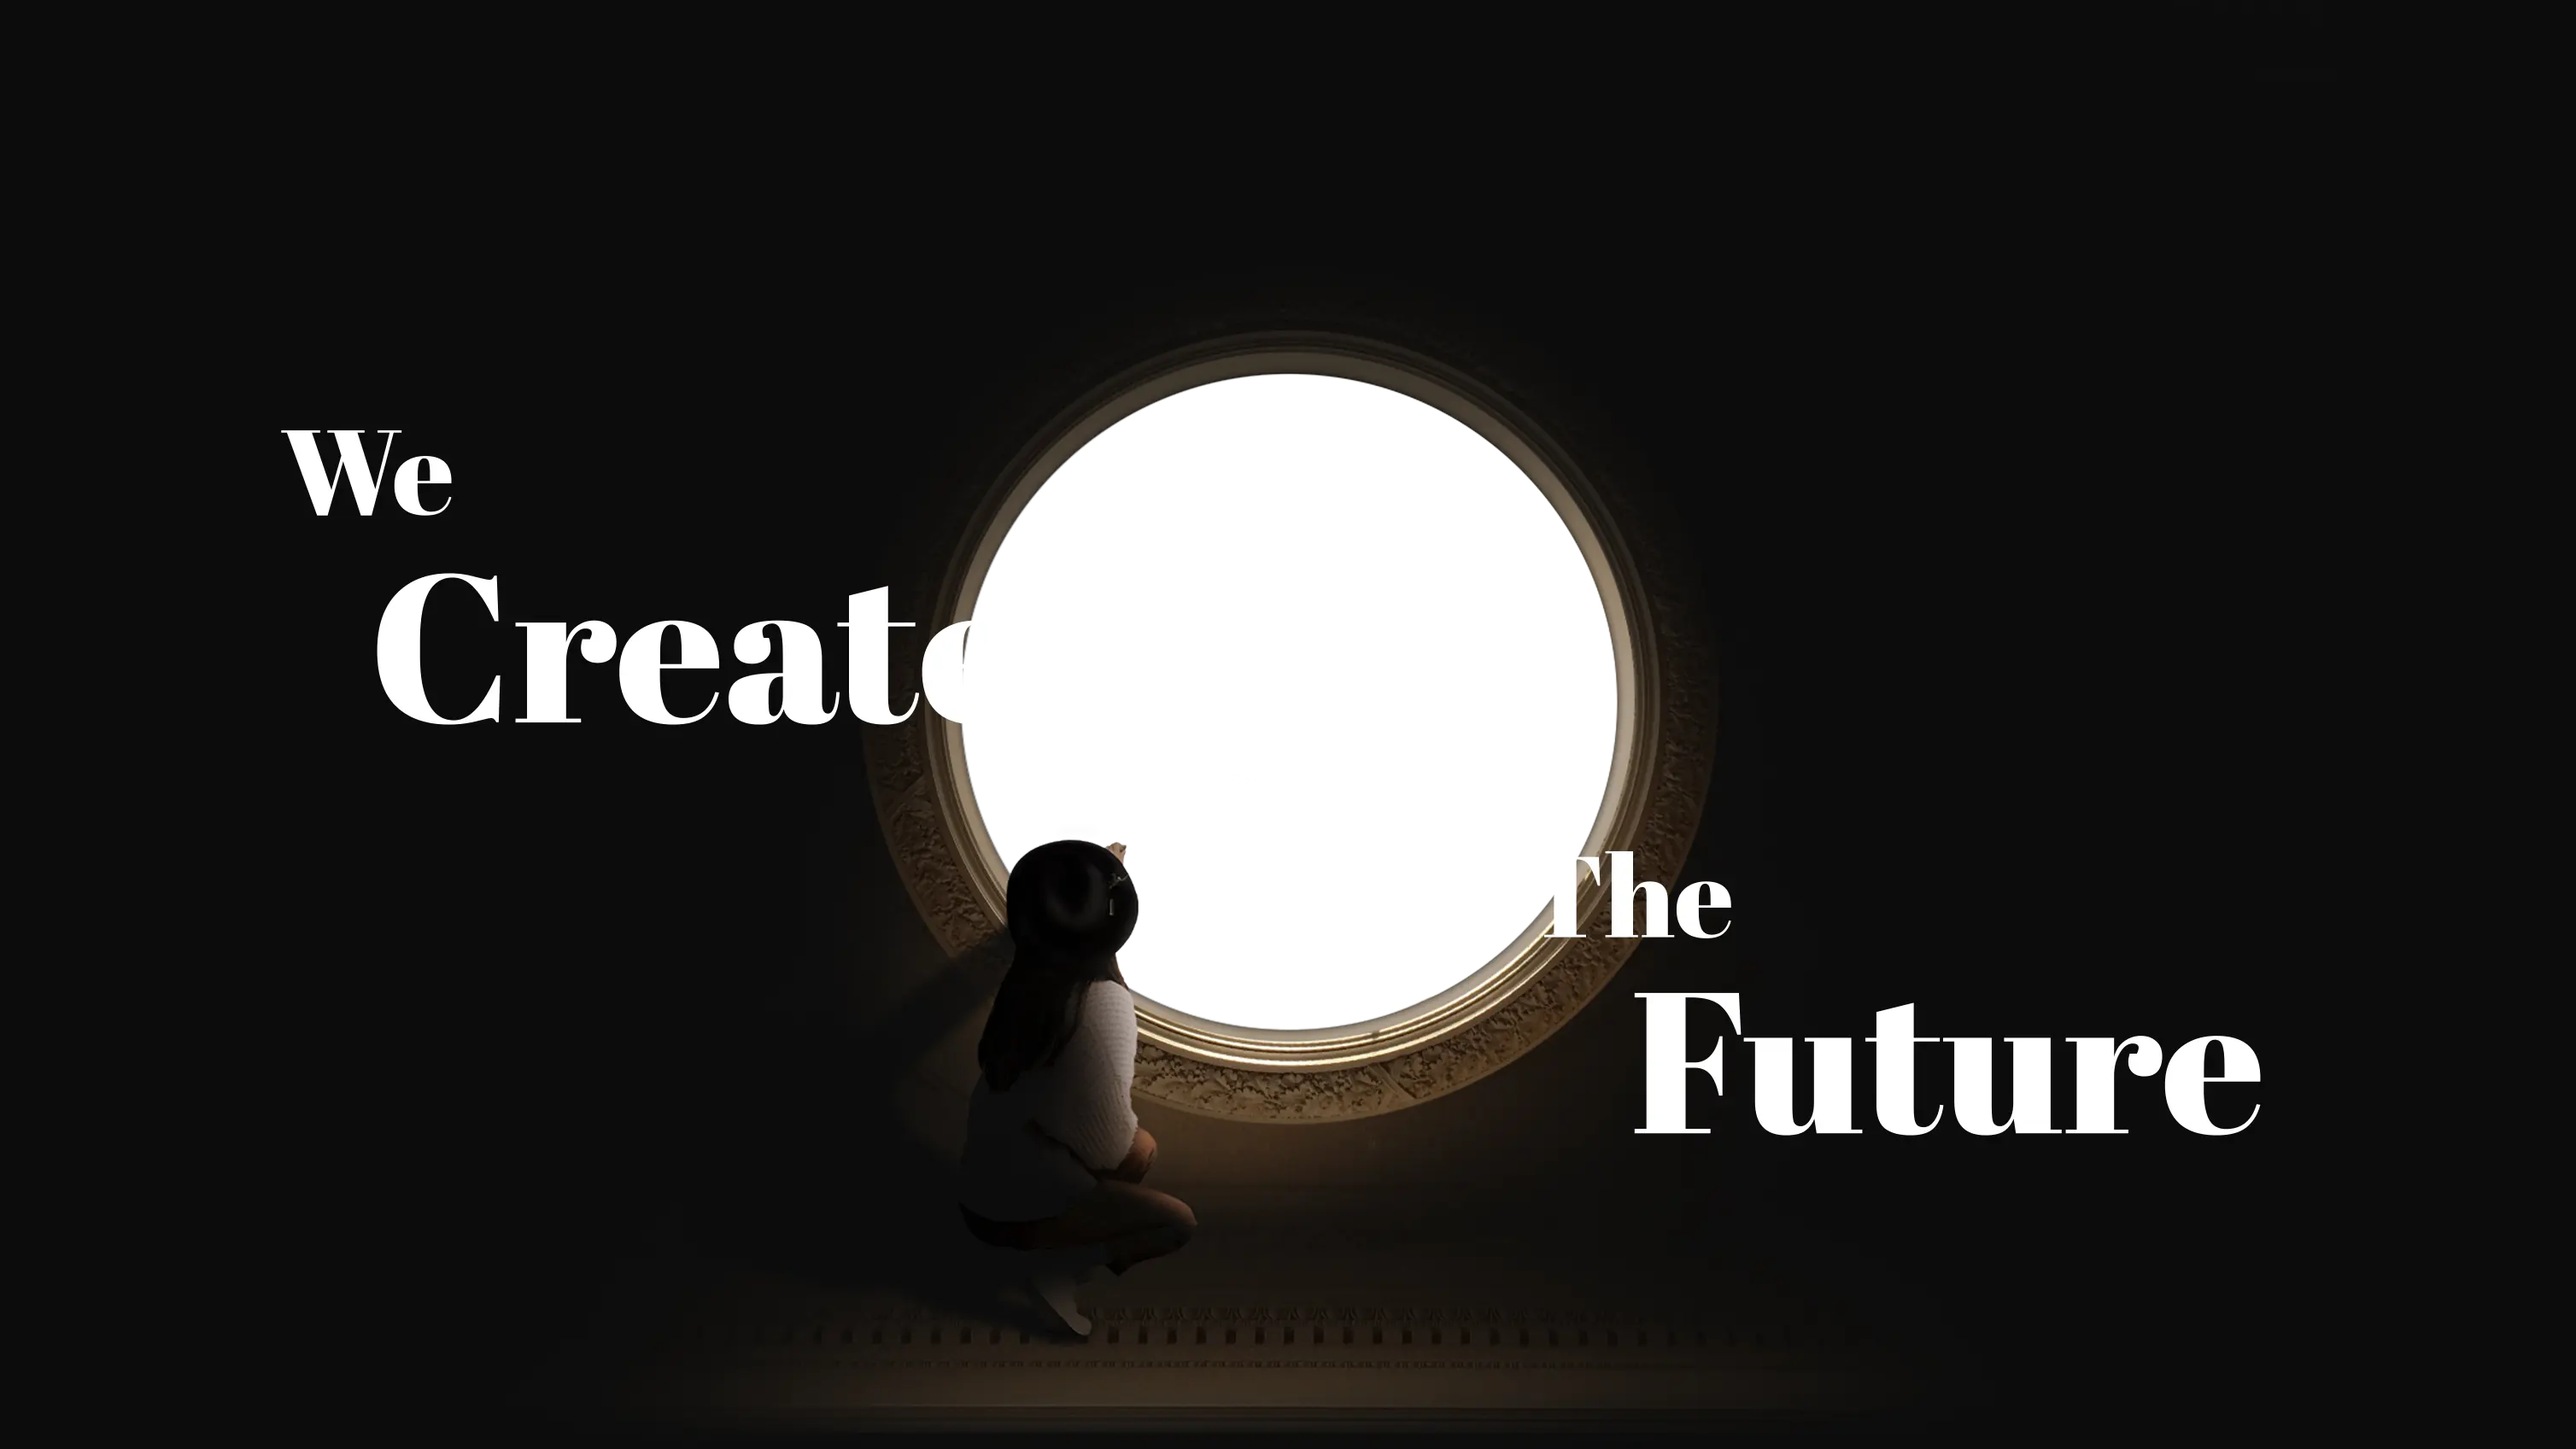
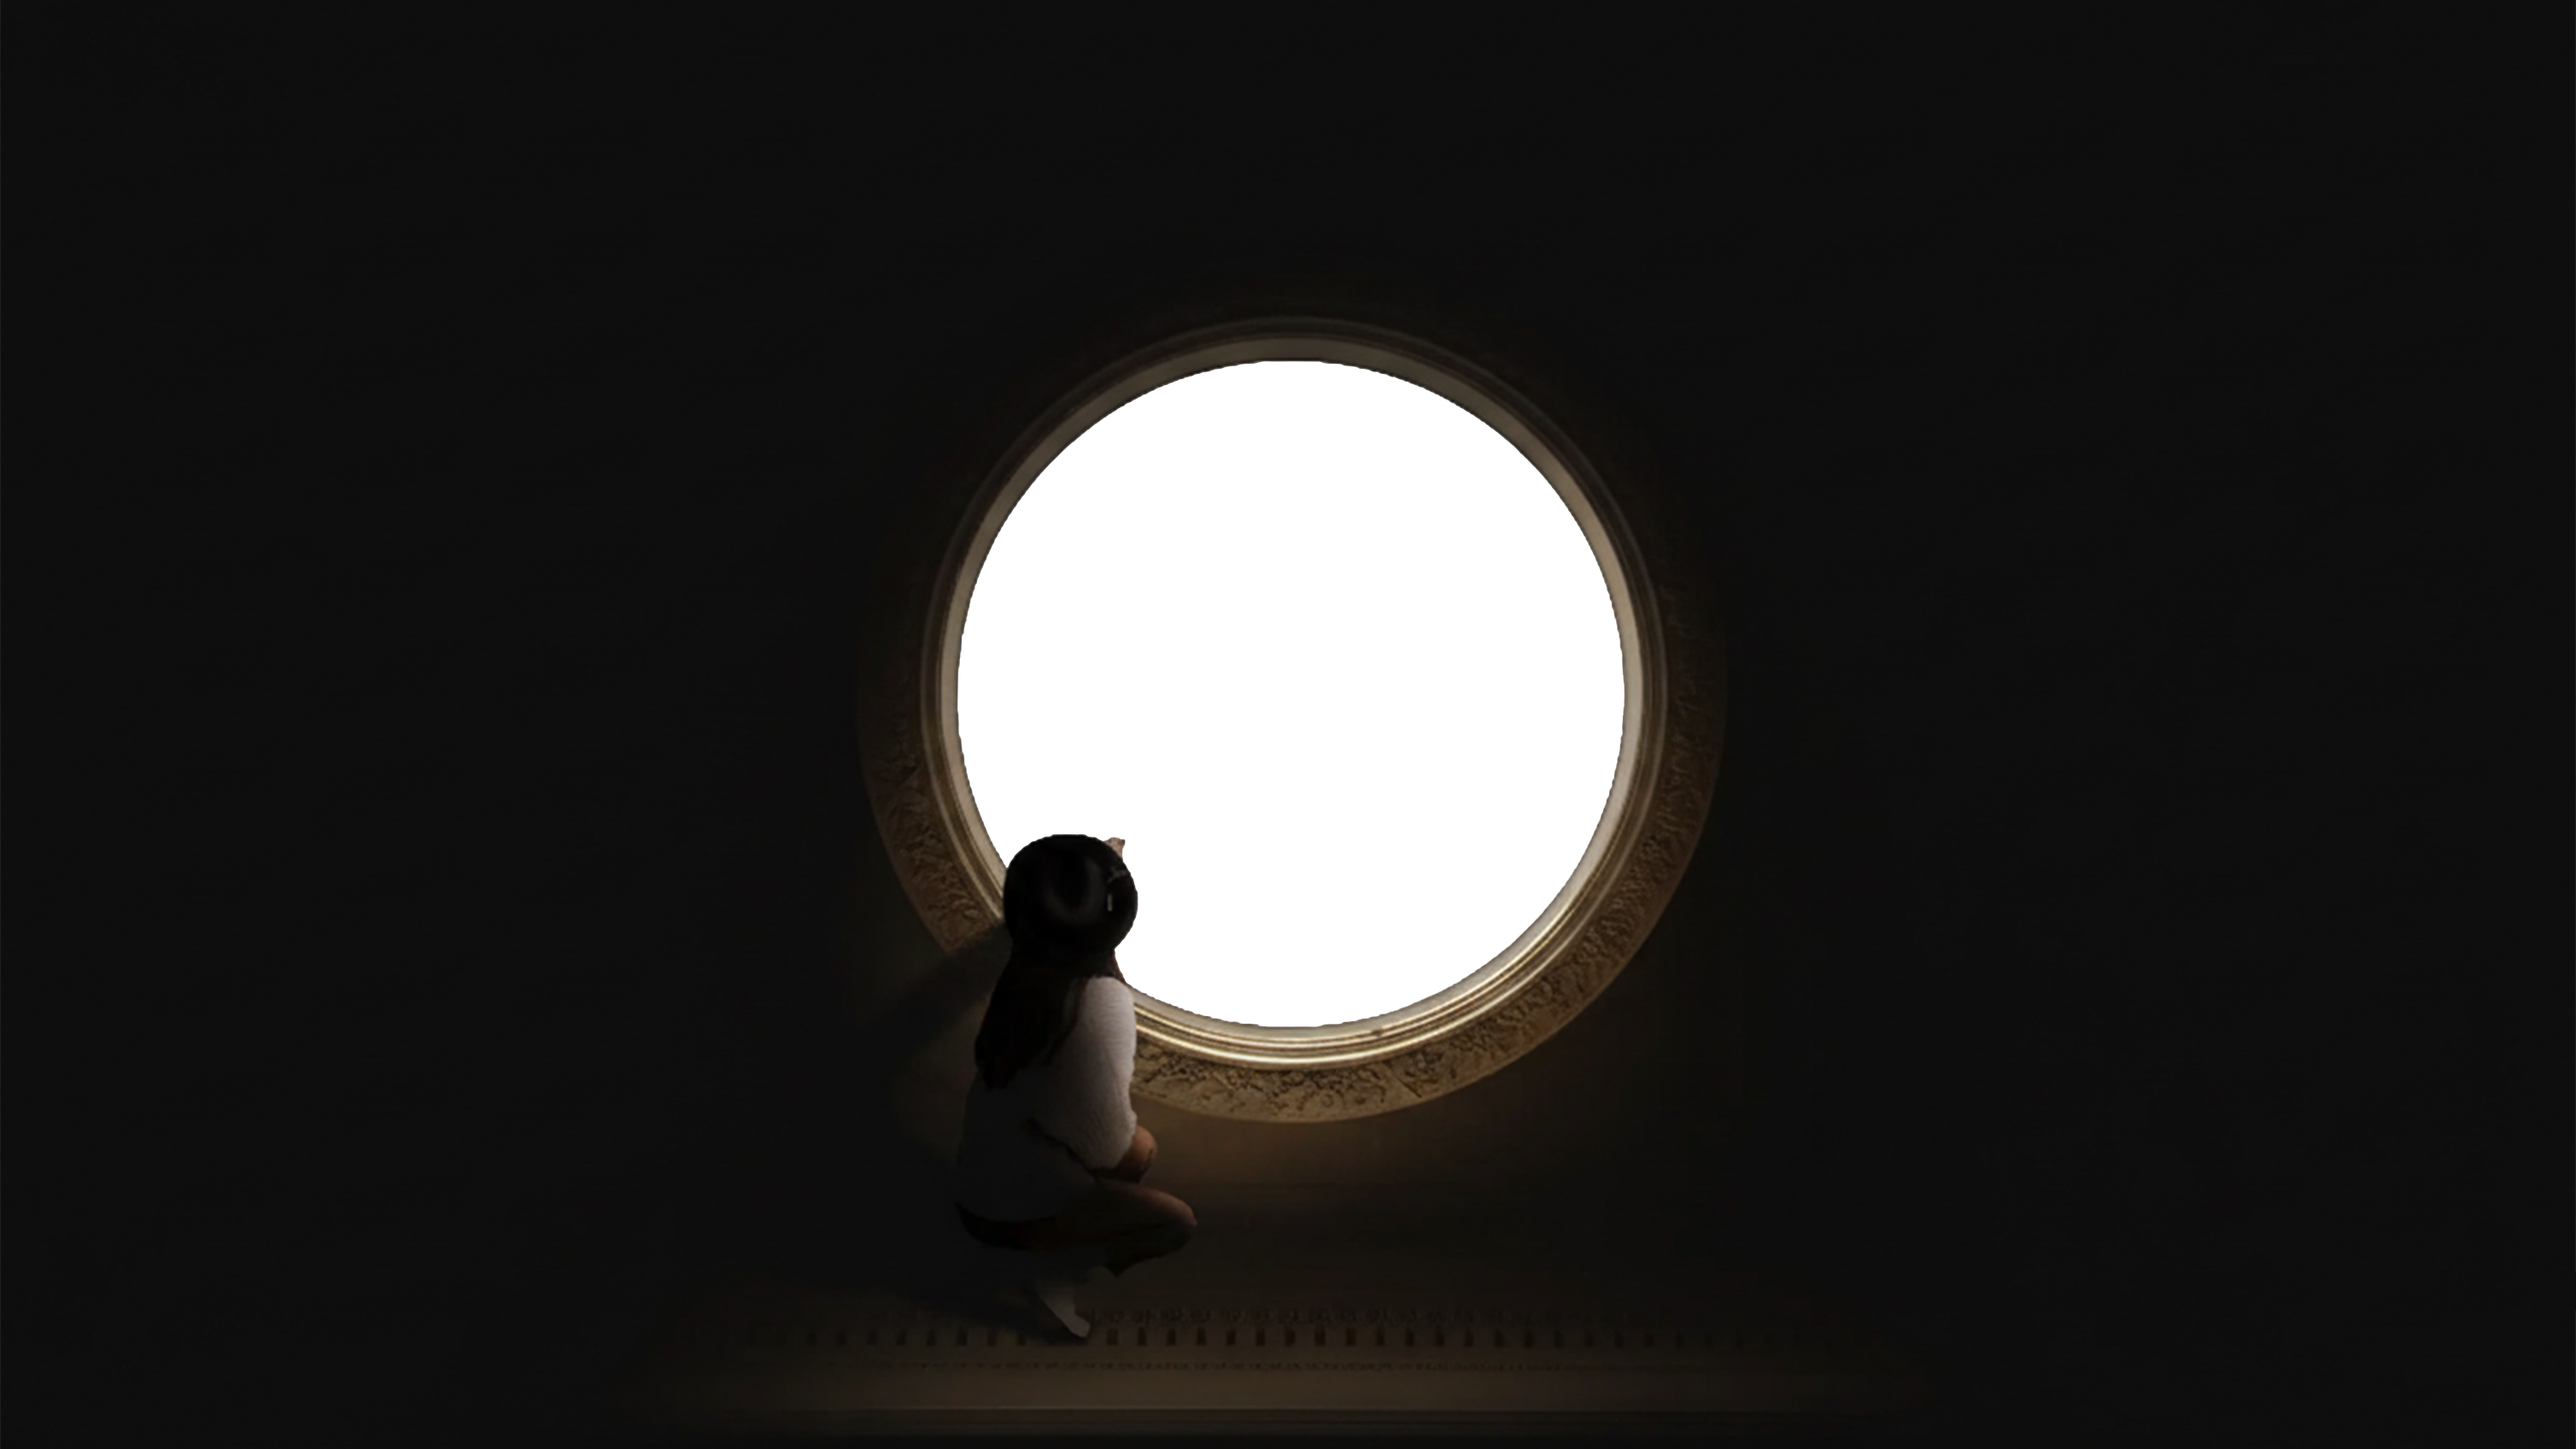
fix hero animation background

diff --git a/components/Hero.tsx b/components/Hero.tsx
@@ -3,7 +3,7 @@
 import { useEffect, useRef } from 'react';
 import { gsap } from 'gsap';
 import { ArrowLeft, Sparkles } from 'lucide-react';
-
+import Image from 'next/image';
 import { ScrollTrigger } from 'gsap/ScrollTrigger';
 
 gsap.registerPlugin(ScrollTrigger);
@@ -67,49 +67,49 @@ export default function Hero({ onOpenQuiz }: { onOpenQuiz: () => void }) {
   // }, []);
 
 
-  // useEffect(() => {
-  //   if (!heroRef.current || !backgroundRef.current) return;
-  //
-  //   const ctx = gsap.context(() => {
-  //     gsap.set(backgroundRef.current, {
-  //       scale: 1,
-  //       opacity: 1,
-  //       transformOrigin: 'center center',
-  //     });
-  //
-  //     gsap.set(
-  //       [headlineRef.current, subheadlineRef.current, ctaRef.current],
-  //       { opacity: 1, y: 0 }
-  //     );
-  //
-  //     gsap.timeline({
-  //       scrollTrigger: {
-  //         trigger: heroRef.current,
-  //         start: 'top top',
-  //         end: '+=250%',
-  //         scrub: true,
-  //         pin: true,
-  //         anticipatePin: 1,
-  //         invalidateOnRefresh: true,
-  //       },
-  //     })
-  //       .to(backgroundRef.current, {
-  //         scale: 3.8,
-  //         ease: 'none',
-  //       })
-  //       .to(
-  //         [headlineRef.current, subheadlineRef.current, ctaRef.current],
-  //         {
-  //           opacity: 0,
-  //           y: -50,
-  //           ease: 'none',
-  //         },
-  //         0
-  //       );
-  //   }, heroRef);
-  //
-  //   return () => ctx.revert();
-  // }, []);
+  useEffect(() => {
+    if (!heroRef.current || !backgroundRef.current) return;
+
+    const ctx = gsap.context(() => {
+      gsap.set(backgroundRef.current, {
+        scale: 1,
+        opacity: 1,
+        transformOrigin: 'center center',
+      });
+
+      gsap.set(
+        [headlineRef.current, subheadlineRef.current, ctaRef.current],
+        { opacity: 1, y: 0 }
+      );
+
+      gsap.timeline({
+        scrollTrigger: {
+          trigger: heroRef.current,
+          start: 'top top',
+          end: '+=150%',
+          scrub: true,
+          pin: true,
+          anticipatePin: 1,
+          invalidateOnRefresh: true,
+        },
+      })
+        .to(backgroundRef.current, {
+          scale: 6.8,
+          ease: "power1.inOut"
+        })
+        .to(
+          [headlineRef.current, subheadlineRef.current, ctaRef.current],
+          {
+            opacity: 0,
+            y: -50,
+            ease: 'none',
+          },
+          0
+        );
+    }, heroRef);
+
+    return () => ctx.revert();
+  }, []);
 
 
   const handleOpenQuiz = () => {
@@ -135,15 +135,29 @@ export default function Hero({ onOpenQuiz }: { onOpenQuiz: () => void }) {
         style={{ backgroundSize: '200% 200%' }}
       /> */}
 
-      <div ref={backgroundRef}
-        className="absolute inset-0 bg-[url('/images/hero.jpg')] bg-cover bg-center transform-gpu" />
 
+      <div
+        className="absolute inset-0 bg-[url('/images/hero-background.jpg')] bg-cover bg-center transform-gpu" />
+      <Image
+        ref={backgroundRef}
+         alt="hero"
+        src="/images/hero8.webp"
+        fill
+        priority
+        sizes="100vw"
+        className="object-cover"
+        style={{
+          // Optimize for mobile
+          transform: 'translateZ(0)', // Force GPU acceleration
+          backfaceVisibility: 'hidden',
+        }}
+      />
       {/* <div className="absolute inset-0 pointer-events-none">
         <div className="absolute top-1/4 left-1/4 w-96 h-96 bg-blue-500/20 rounded-full blur-3xl animate-pulse" />
         <div className="absolute bottom-1/4 right-1/4 w-96 h-96 bg-cyan-500/20 rounded-full blur-3xl animate-pulse" style={{ animationDelay: '1s' }} />
       </div> */}
 
-      <div className="relative container mx-auto px-4 ">
+      <div className="hidden md:block relative container mx-auto px-4 ">
         <div className="inline-flex items-center gap-2 px-4 py-2 rounded-full backdrop-blur-xl bg-white/60 dark:bg-slate-900/60 border border-white/20 dark:border-slate-700/30 mb-8">
           <Sparkles className="w-4 h-4 text-blue-600 dark:text-blue-400" />
           <span className="text-sm font-medium text-slate-700 dark:text-slate-300">

diff --git a/components/Footer.tsx b/components/Footer.tsx
@@ -1,7 +1,7 @@
 'use client';
 
 import { Github, Twitter, Linkedin, Mail } from 'lucide-react';
-
+import Image from 'next/image';
 export default function Footer() {
   const currentYear = new Date().getFullYear();
 
@@ -33,9 +33,18 @@ export default function Footer() {
       <div className="relative container mx-auto px-4 py-16">
         <div className="grid grid-cols-1 md:grid-cols-4 gap-12 mb-12">
           <div className="md:col-span-2">
-            <h3 className="text-3xl font-bold bg-gradient-to-r from-blue-400 to-cyan-400 bg-clip-text text-transparent mb-4">
-              Safar.AI
-            </h3>
+            <div className='px-16 py-4 flex justify-center md:justify-start'>
+              <Image
+                onClick={() => scrollToSection('hero')}
+                src="/images/logo.png"
+                alt="logo"
+                width={120}
+                height={120}
+                className="cursor-pointer w-[100px] h-[80px] md:w-[110px] md:h-[100px]"
+                priority
+              />
+            </div>
+
             <p className="text-slate-400 max-w-md">
               تجارب سفر مدعومة بالذكاء الاصطناعي مصممة خصيصًا لشخصيتك. اكتشف وجهات تتناسب مع حمضك النووي الفريد للسفر.
             </p>

diff --git a/components/TravelDNAQuiz.tsx b/components/TravelDNAQuiz.tsx
@@ -492,7 +492,7 @@ export default function TravelDNAQuiz() {
   }
 
   return (
-    <div className="relative overflow-hidden rounded-3xl">
+    <div className="relative overflow-hidden rounded-3xl m-4 md:m-0">
       {/* Animated gradient background */}
       <div
         ref={backgroundRef}
@@ -510,7 +510,7 @@ export default function TravelDNAQuiz() {
         <MapPin className="floating-icon absolute top-[40%] left-[5%] w-6 h-6 text-blue-400/30 dark:text-blue-300/20" />
       </div>
 
-      <div className="relative flex items-center justify-center p-6 md:p-8 bg-slate-900/60">
+      <div className="relative flex items-center justify-center p-2 md:p-8 bg-slate-900/60 ">
         <div ref={containerRef} className="w-full max-w-2xl">
           {/* Header with glassmorphism */}
           <div className="text-center mb-8">

diff --git a/components/Header.tsx b/components/Header.tsx
@@ -87,11 +87,9 @@ export default function Header({ onOpenQuiz }: { onOpenQuiz?: () => void }) {
             alt="logo"
             width={80}
             height={80}
-            className="cursor-pointer w-[60px] h-[60px] md:w-[80px] md:h-[80px]"
+            className="cursor-pointer w-[60px] h-[60px] md:w-[100px] md:h-[80px]"
             priority
           />
-
-
 
           <ul className="hidden  w-[50%] md:flex items-center gap-8  justify-between">
             {navLinks.map((link) => (
